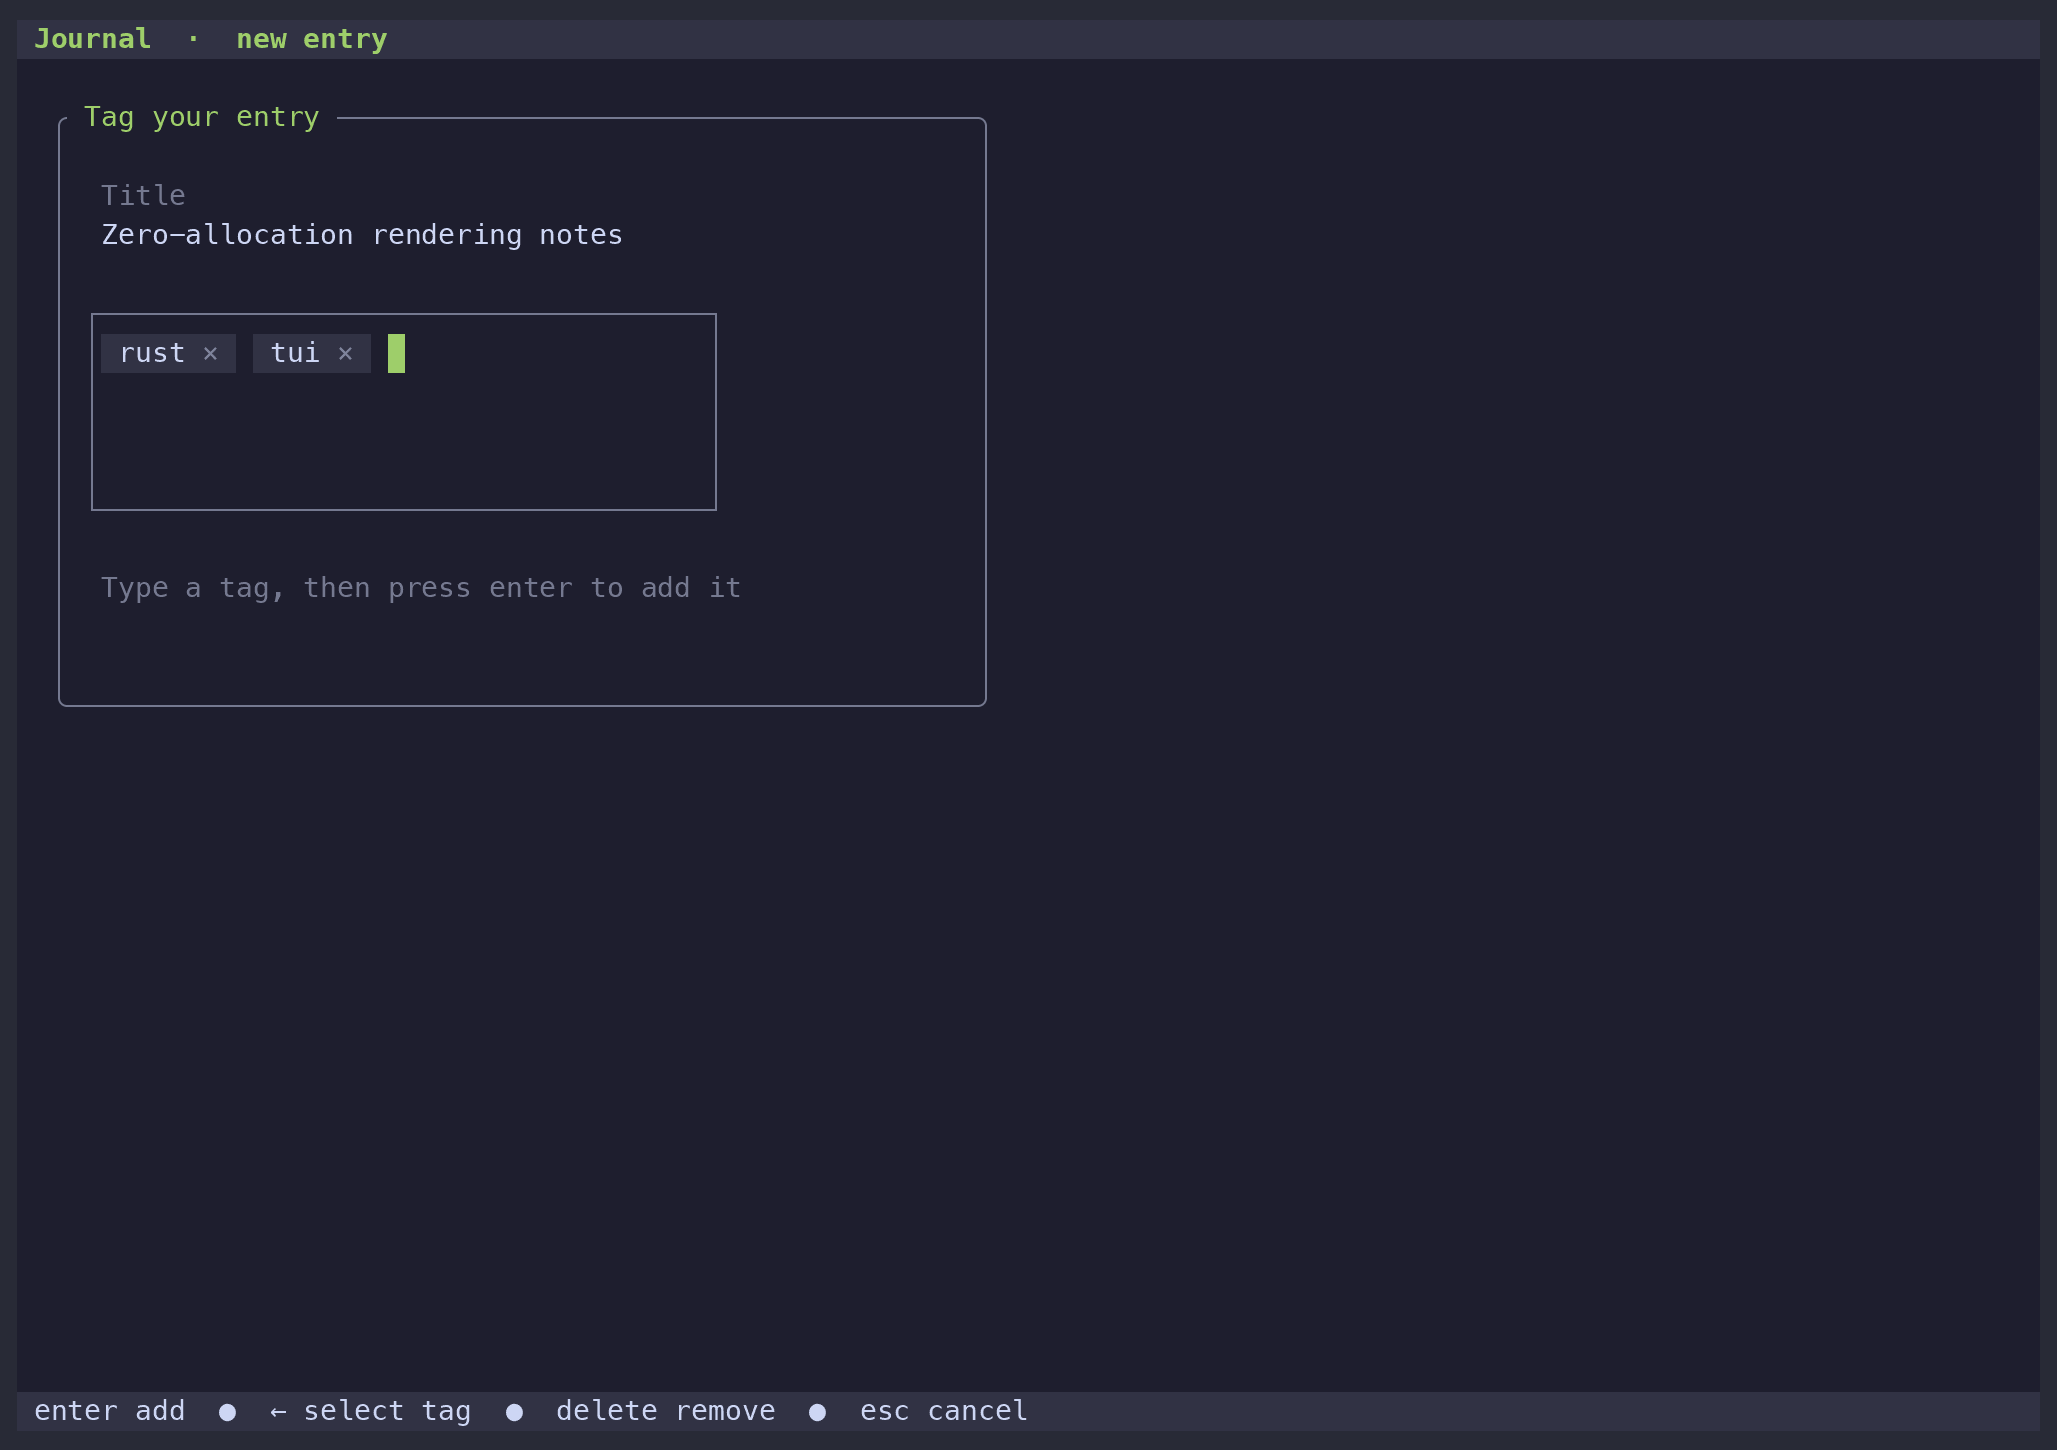
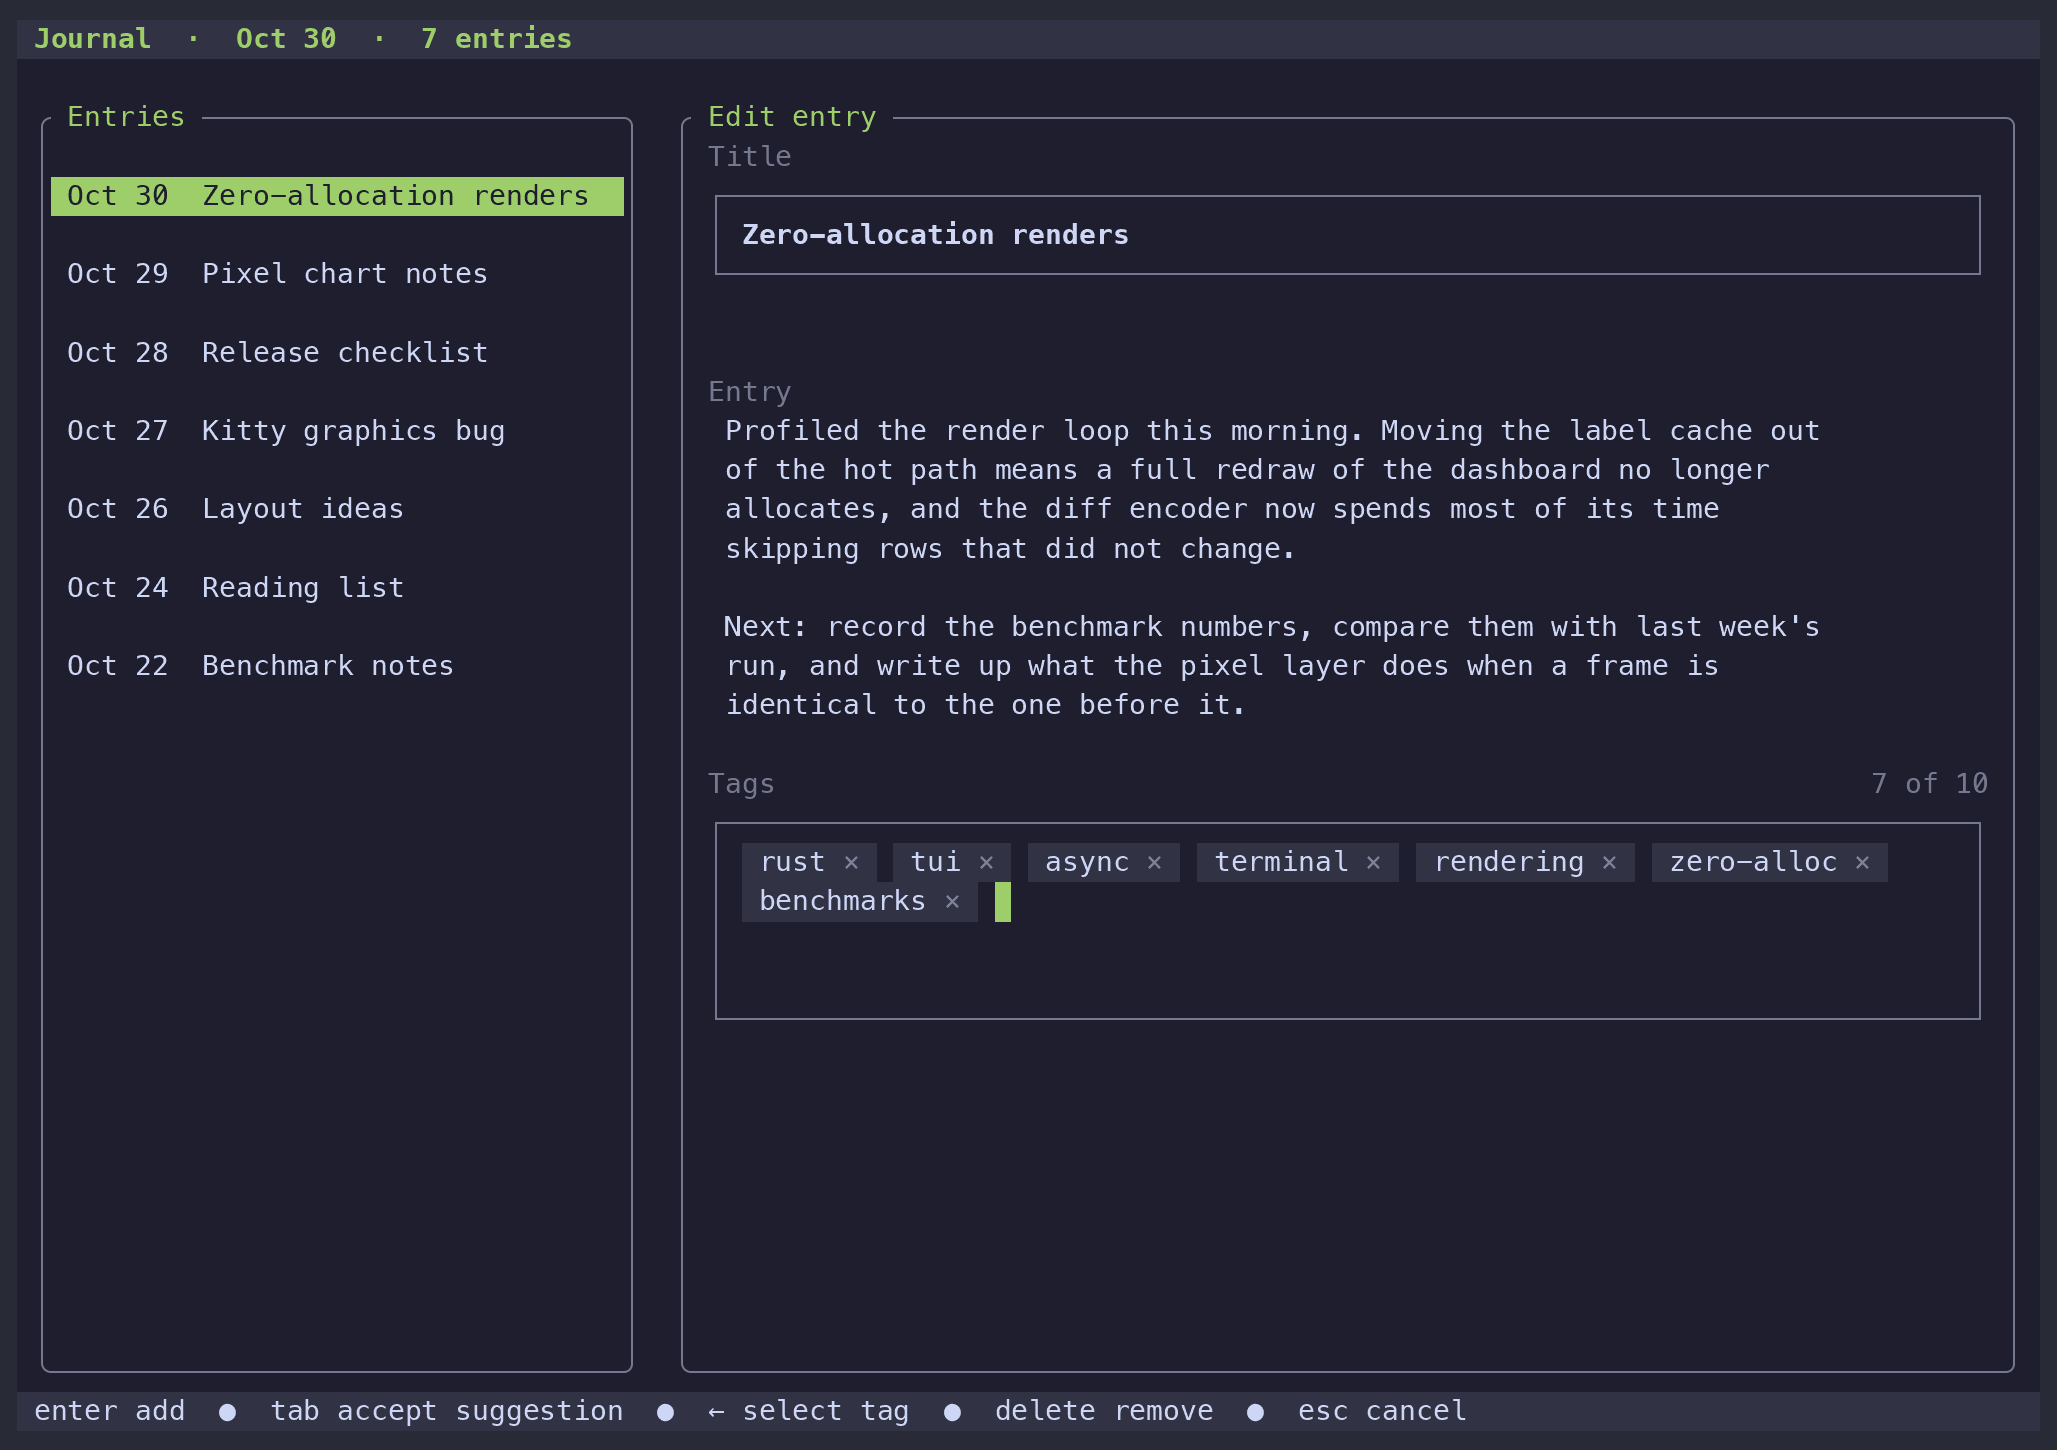
Re-record the TagInput showcase as a full journal editor screen

diff --git a/examples/widget_preview.rs b/examples/widget_preview.rs
@@ -6953,31 +6953,146 @@ fn notify_native(
 
 fn notify_baseline(_buffer: &mut Buffer, _area: RatRect, _theme: &Theme, _tick: u32) {}
 
-fn tags_state(tick: u32) -> (Vec<String>, String, Option<usize>) {
-    let mut tags = vec!["rust".to_owned(), "tui".to_owned()];
-    let mut text = String::new();
-    let typing = |word: &str, start: u32, per: u32, tick: u32| -> usize {
-        let typed = usize::try_from(tick.saturating_sub(start) / per + 1).unwrap_or(0);
-        typed.min(word.len())
+const TAGS_START: [&str; 7] = [
+    "rust",
+    "tui",
+    "async",
+    "terminal",
+    "rendering",
+    "zero-alloc",
+    "benchmarks",
+];
+const TAGS_VOCAB: [&str; 9] = [
+    "widgets",
+    "widget-state",
+    "wide-screen",
+    "grid",
+    "gradient",
+    "graphite",
+    "rust-analyzer",
+    "profiling",
+    "kitty",
+];
+const TAGS_LIMIT: usize = 10;
+
+struct TagsScene {
+    tags: Vec<String>,
+    text: String,
+    selected: Option<usize>,
+    message: Option<(Token, &'static str)>,
+}
+
+fn tags_prefix(word: &str, start: u32, per: u32, tick: u32) -> &str {
+    let typed = usize::try_from(tick.saturating_sub(start) / per + 1).unwrap_or(0);
+    &word[..typed.min(word.len())]
+}
+
+fn tags_scene(tick: u32) -> TagsScene {
+    let mut scene = TagsScene {
+        tags: TAGS_START.iter().map(|tag| (*tag).to_owned()).collect(),
+        text: String::new(),
+        selected: None,
+        message: None,
     };
-    let words = [
-        ("async", 20_u32, 85_u32),
-        ("widgets", 100, 165),
-        ("grid", 175, 205),
+    if (20..62).contains(&tick) {
+        tags_prefix("wid", 20, 7, tick).clone_into(&mut scene.text);
+    }
+    if tick >= 62 {
+        scene.tags.push("widgets".to_owned());
+    }
+    if (62..140).contains(&tick) {
+        scene.message = Some((Token::Ok, "Added widgets"));
+    }
+    if (80..108).contains(&tick) {
+        tags_prefix("rust", 80, 6, tick).clone_into(&mut scene.text);
+    }
+    if (108..150).contains(&tick) {
+        scene.message = Some((Token::Warn, "rust is already a tag"));
+    }
+    if (150..176).contains(&tick) {
+        scene.selected = Some(scene.tags.len() - 1);
+    }
+    if tick >= 176 {
+        scene.tags.pop();
+        scene.message = Some((Token::Accent, "Removed widgets"));
+    }
+    if (196..226).contains(&tick) {
+        tags_prefix("grid", 196, 7, tick).clone_into(&mut scene.text);
+    }
+    if tick >= 226 {
+        scene.tags.push("grid".to_owned());
+        scene.message = Some((Token::Ok, "Added grid"));
+    }
+    scene
+}
+
+fn tags_form(cx: &mut RenderCx<'_>, theme: &Theme, editor: Rect, tick: u32) {
+    let surface = theme.resolve(Token::Surface0);
+    let raised = theme.resolve(Token::Surface1);
+    let text = theme.resolve(Token::TextPrimary);
+    let accent = theme.resolve(Token::Accent);
+    let fill = Style::new().fg(text).bg(surface);
+    let dim = fill.with_attrs(Attrs::new().set_dim(true));
+    let bold = fill.with_attrs(Attrs::new().set_bold(true));
+    let (px, py, pw) = (editor.x + 2, editor.y + 1, editor.width - 4);
+    cx.put_str(px, py, "Title", dim);
+    Block::bordered()
+        .border_style(dim)
+        .style(fill)
+        .render(Rect::new(px, py + 1, pw, 3), cx);
+    cx.put_str(px + 2, py + 2, "Zero-allocation renders", bold);
+    cx.put_str(px, py + 6, "Entry", dim);
+    let paragraph = [
+        "Profiled the render loop this morning. Moving the label cache out",
+        "of the hot path means a full redraw of the dashboard no longer",
+        "allocates, and the diff encoder now spends most of its time",
+        "skipping rows that did not change.",
+        "",
+        "Next: record the benchmark numbers, compare them with last week's",
+        "run, and write up what the pixel layer does when a frame is",
+        "identical to the one before it.",
     ];
-    for (word, start, done) in words {
-        if tick >= done {
-            tags.push(word.to_owned());
-        } else if tick >= start {
-            word[..typing(word, start, 12, tick)].clone_into(&mut text);
-        }
+    for (row, line) in (0_u16..).zip(paragraph) {
+        cx.put_str(px + 1, py + 7 + row, line, fill);
     }
-    let selected = (tick >= 215).then(|| tags.len() - 1);
-    if tick >= 232 {
-        tags.pop();
-        return (tags, text, None);
+    let scene = tags_scene(tick);
+    cx.put_str(px, py + 16, "Tags", dim);
+    let count = format!("{} of {TAGS_LIMIT}", scene.tags.len());
+    let count_at = px + pw - u16::try_from(count.len()).unwrap_or(0);
+    cx.put_str(count_at, py + 16, &count, dim);
+    let frame = Rect::new(px, py + 17, pw, 6);
+    Block::bordered()
+        .border_style(dim)
+        .style(fill)
+        .render(frame, cx);
+    TagInput::new(&scene.tags, scene.text.as_str(), scene.text.len())
+        .placeholder("Type a tag and press enter")
+        .selected(scene.selected)
+        .state(WidgetState::Focused)
+        .render(Rect::new(frame.x + 2, frame.y + 1, frame.width - 4, 4), cx);
+    let matches: Vec<&str> = TAGS_VOCAB
+        .iter()
+        .copied()
+        .filter(|word| {
+            !scene.text.is_empty()
+                && word.starts_with(scene.text.as_str())
+                && !scene.tags.iter().any(|tag| tag == word)
+        })
+        .collect();
+    for (row, word) in (0_u16..).zip(matches.iter().take(3)) {
+        let line = Rect::new(frame.x + 2, frame.y + 6 + row, 30, 1);
+        let style = if row == 0 {
+            Style::new().fg(surface).bg(accent)
+        } else {
+            Style::new().fg(text).bg(raised)
+        };
+        cx.fill(line, style, ' ');
+        cx.put_str(line.x + 1, line.y, word, style);
     }
-    (tags, text, selected)
+    if let Some((token, message)) = scene.message {
+        let style = fill.fg(theme.resolve(token));
+        cx.put_str(px + 1, py + 27, message, style);
+    }
 }
 
 fn tags_native(grid: &mut Grid, clusters: &mut ClusterTable, theme: &Theme, area: Rect, tick: u32) {
@@ -6994,51 +7109,57 @@ fn tags_native(grid: &mut Grid, clusters: &mut ClusterTable, theme: &Theme, area
         .bg(raised)
         .with_attrs(Attrs::new().set_bold(true));
     cx.put_str(area.x, area.y, &" ".repeat(usize::from(area.width)), head);
-    cx.put_str(area.x + 1, area.y, "Journal  ·  new entry", head);
-    let panel = Rect::new(area.x + 2, area.y + 2, 56, 16);
-    Block::bordered()
-        .border_type(BorderType::Rounded)
-        .title(" Tag your entry ")
-        .style(fill)
-        .border_style(dim)
-        .title_style(Style::new().fg(accent).bg(surface))
-        .render(panel, &mut cx);
-    cx.put_str(panel.x + 3, panel.y + 2, "Title", dim);
-    cx.put_str(
-        panel.x + 3,
-        panel.y + 3,
-        "Zero-allocation rendering notes",
-        fill,
-    );
-    cx.put_str(panel.x + 3, panel.y + 5, "Tags", dim);
-    let (tags, typed, selected) = tags_state(tick);
-    let box_area = Rect::new(panel.x + 3, panel.y + 6, 36, 4);
-    Block::bordered()
-        .border_style(dim)
-        .style(fill)
-        .render(Rect::new(box_area.x - 1, box_area.y - 1, 38, 6), &mut cx);
-    TagInput::new(&tags, typed.as_str(), typed.len())
-        .placeholder("Type a tag and press enter")
-        .selected(selected)
-        .state(WidgetState::Focused)
-        .render(box_area, &mut cx);
-    let hint = match selected {
-        Some(_) => "Selected tag: press delete to remove it",
-        None if typed.is_empty() => "Type a tag, then press enter to add it",
-        None => "Press enter to add the tag",
-    };
-    cx.put_str(panel.x + 3, panel.y + 12, hint, dim);
-    StatusBar::new(" enter add  ●  ← select tag  ●  delete remove  ●  esc cancel")
-        .style(Style::new().fg(text).bg(raised))
-        .render(
-            Rect::new(
-                area.x,
-                area.y + area.height.saturating_sub(1),
-                area.width,
-                1,
-            ),
-            &mut cx,
+    cx.put_str(area.x + 1, area.y, "Journal  ·  Oct 30  ·  7 entries", head);
+    let body_height = area.height.saturating_sub(3);
+    let list = Rect::new(area.x + 1, area.y + 2, 36, body_height);
+    let editor = Rect::new(area.x + 39, area.y + 2, area.width - 40, body_height);
+    for (title, pane) in [(" Entries ", list), (" Edit entry ", editor)] {
+        Block::bordered()
+            .border_type(BorderType::Rounded)
+            .title(title)
+            .style(fill)
+            .border_style(dim)
+            .title_style(Style::new().fg(accent).bg(surface))
+            .render(pane, &mut cx);
+    }
+    let entries = [
+        "Oct 30  Zero-allocation renders",
+        "Oct 29  Pixel chart notes",
+        "Oct 28  Release checklist",
+        "Oct 27  Kitty graphics bug",
+        "Oct 26  Layout ideas",
+        "Oct 24  Reading list",
+        "Oct 22  Benchmark notes",
+    ];
+    for (row, entry) in (0_u16..).zip(entries) {
+        let line = Rect::new(list.x + 1, list.y + 2 + row * 2, list.width - 2, 1);
+        let style = if row == 0 {
+            Style::new().fg(surface).bg(accent)
+        } else {
+            fill
+        };
+        cx.fill(line, style, ' ');
+        cx.put_str(
+            line.x + 1,
+            line.y,
+            clip_display_prefix(entry, line.width - 2),
+            style,
         );
+    }
+    tags_form(&mut cx, theme, editor, tick);
+    StatusBar::new(
+        " enter add  ●  tab accept suggestion  ●  ← select tag  ●  delete remove  ●  esc cancel",
+    )
+    .style(Style::new().fg(text).bg(raised))
+    .render(
+        Rect::new(
+            area.x,
+            area.y + area.height.saturating_sub(1),
+            area.width,
+            1,
+        ),
+        &mut cx,
+    );
 }
 
 fn tags_baseline(_buffer: &mut Buffer, _area: RatRect, _theme: &Theme, _tick: u32) {}

diff --git a/README.md b/README.md
@@ -210,9 +210,9 @@ Screenshot: [docs/media/slider.png](docs/media/slider.png). Recorded with `scrip
 
 ### Tag input
 
-A journal entry form: typed text becomes a chip on enter, the chips wrap onto a second row when the line is full, the arrow keys select the last chip, and delete removes it.
+A journal editor: the tags wrap onto a second row, typing narrows a list of suggestions, a tag that is already there is refused with a message, the arrow keys select the last chip and delete removes it, and the count beside the label follows.
 
-<img src="docs/media/tag-input.webp" alt="TagInput: tags added one by one as chips that wrap onto a second row, a caret in the field, and the last chip selected for removal in the dark theme" width="1028">
+<img src="docs/media/tag-input.webp" alt="TagInput in a journal editor: wrapping tag chips, a suggestion list under the field, a duplicate tag warning, a chip removed, and the tag count updating in the dark theme" width="1028">
 
 Screenshot: [docs/media/tag-input.png](docs/media/tag-input.png). Recorded with `scripts/record-showcase.sh` (`CASE=tag-input`, 120×36 at 2x scale, `FRAMES=240`, dark, lossless animated WebP, about 10 seconds).
 
